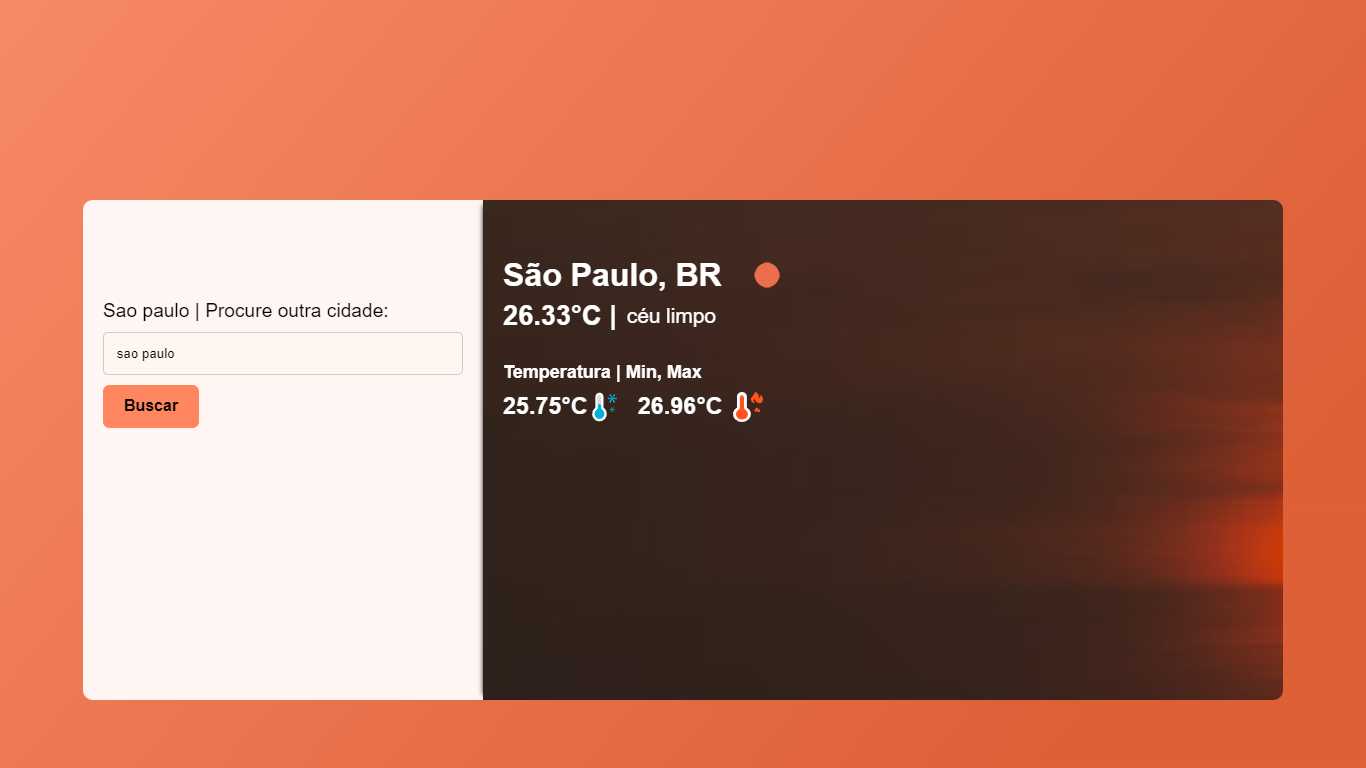
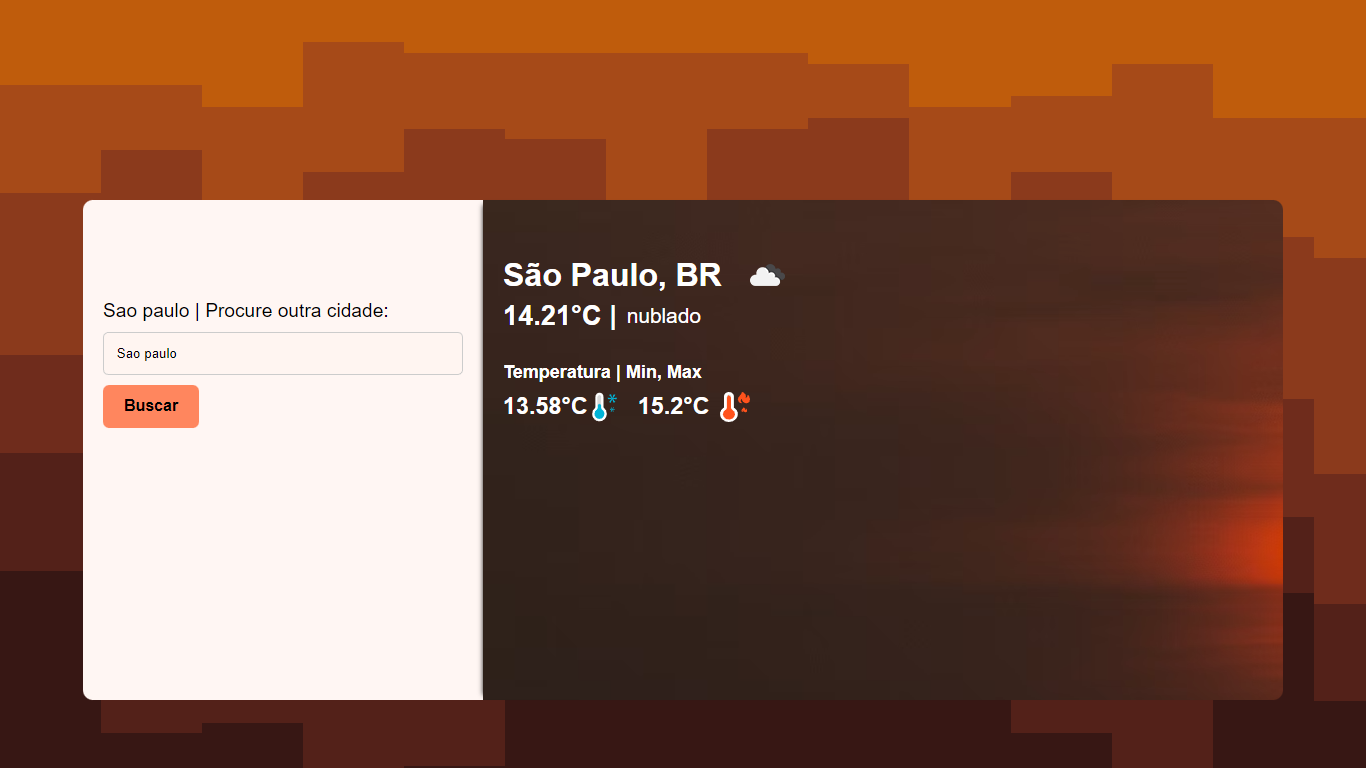
Background

diff --git a/src/App.css b/src/App.css
@@ -6,8 +6,7 @@ body {
   margin: 0px;
   height: 100h;
   background-color: black;
-  background: linear-gradient(130.02deg, #f78965 0.66%, #dd6037 83.32%)
-    no-repeat center center fixed;
+  background: url(./assets/bg.svg);
   --font-1: Helvetica, Arial, sans-serif;
   font-family: var(--font-1);
 }
@@ -35,10 +34,4 @@ img {
   max-width: 75rem;
   padding: 0 0rem;
   margin: 0 auto;
-}
-
-@media (max-width: 870px) {
-  body {
-    background: black
-  }
 }

diff --git a/README.md b/README.md
@@ -7,7 +7,7 @@ Projeto de um app de previsão do tempo feito em react, consumindo API.
 <p align="center">
   <a href="#-tecnologias">Tecnologias</a>&nbsp;&nbsp;&nbsp;|&nbsp;&nbsp;&nbsp;
   <a href="#-projeto">Projeto</a>&nbsp;&nbsp;&nbsp;|&nbsp;&nbsp;&nbsp;
-  <a href="#-layout">API</a>&nbsp;&nbsp;&nbsp;|&nbsp;&nbsp;&nbsp;
+  <a href="#-api">API</a>&nbsp;&nbsp;&nbsp;|&nbsp;&nbsp;&nbsp;
 </p>
 
 [![Netlify Status](https://api.netlify.com/api/v1/badges/a22eb779-9bcf-428b-90de-fd3b8176373d/deploy-status)](https://galaxyweather.netlify.app/)
